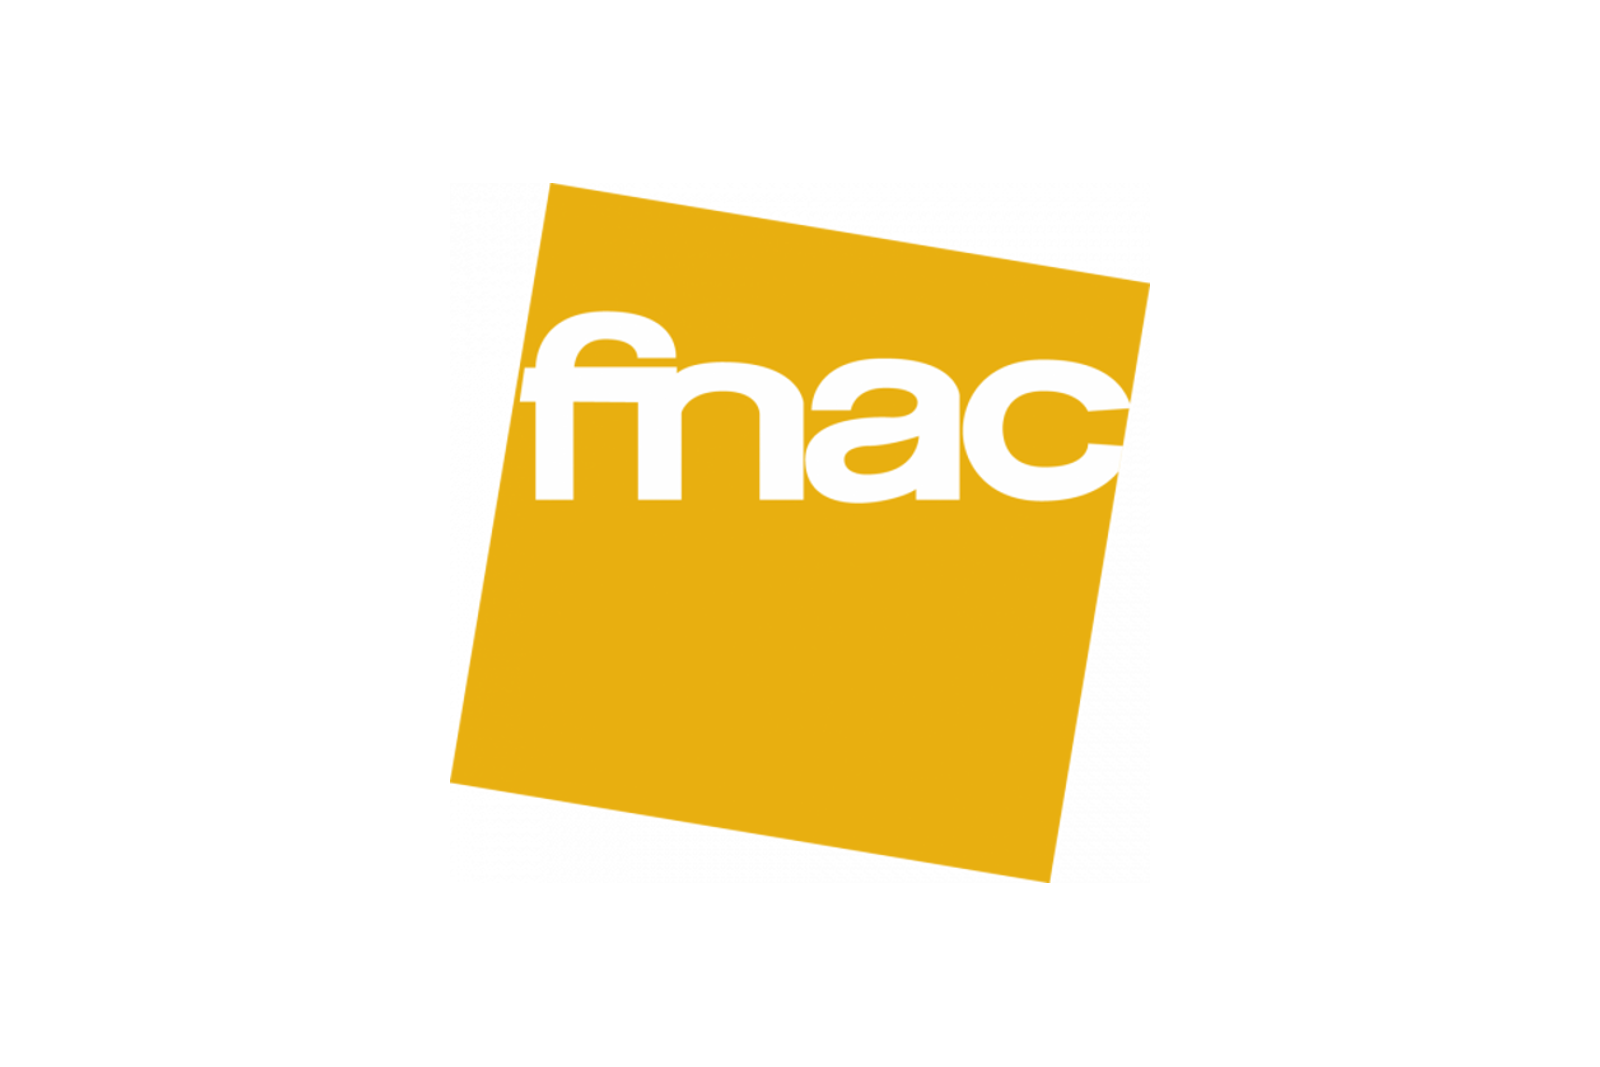
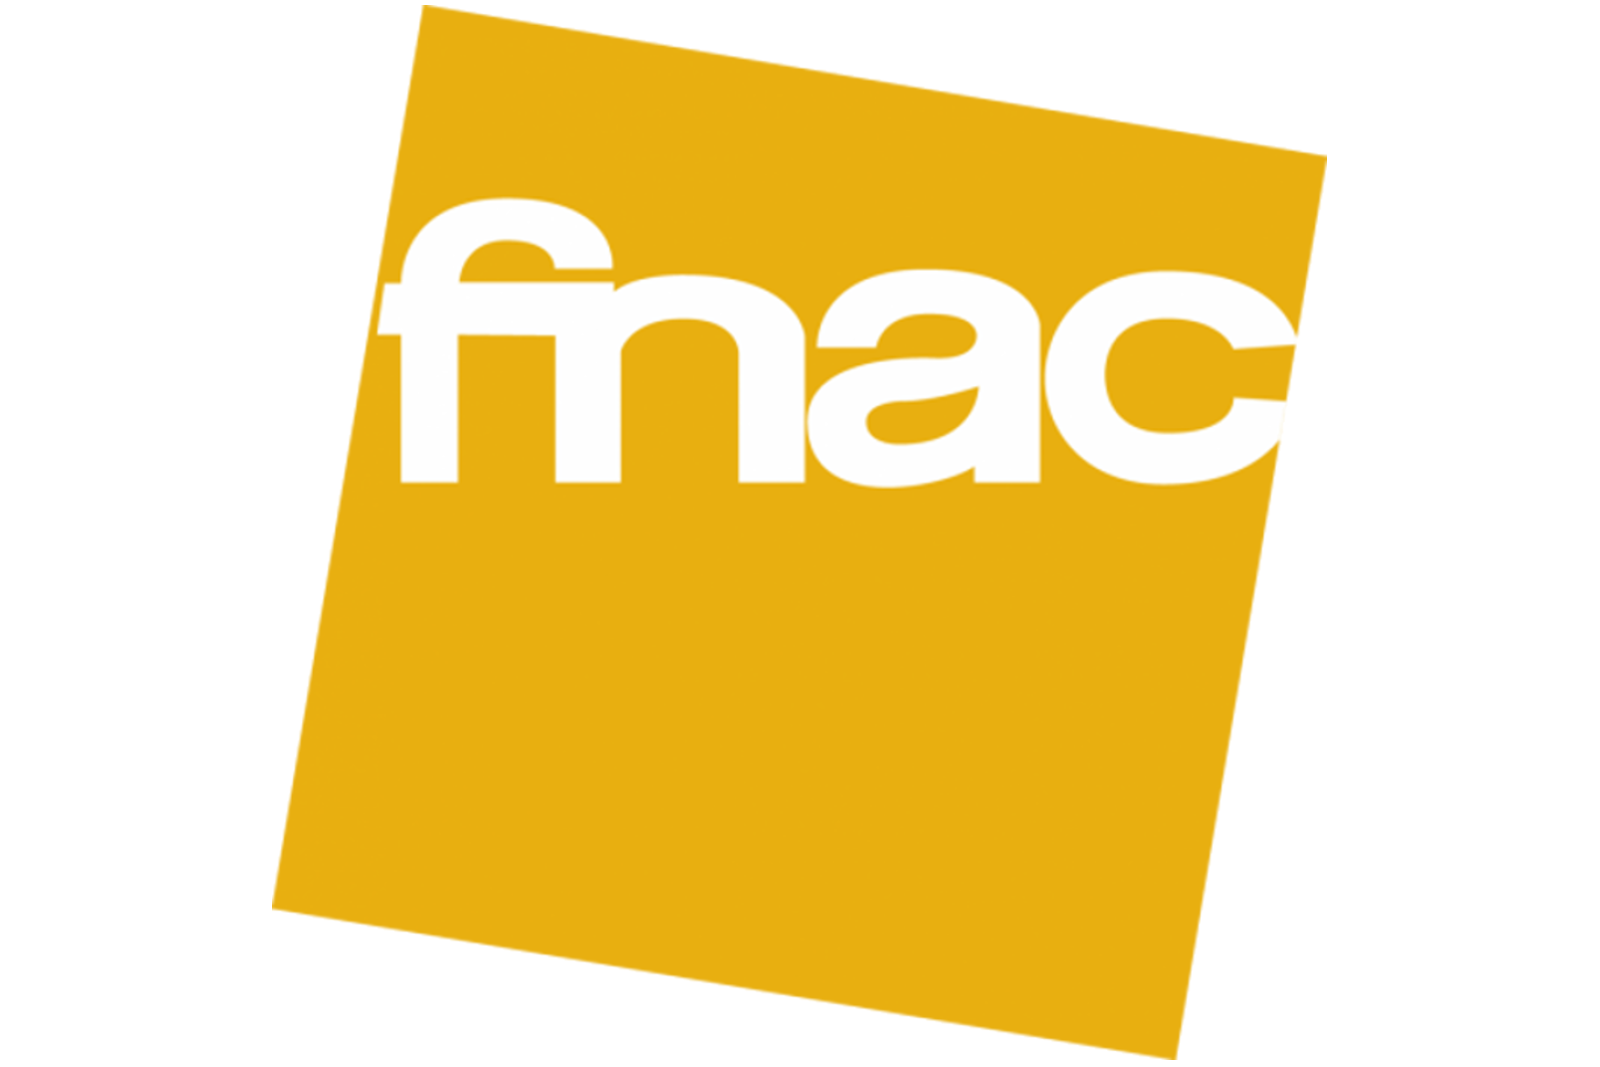
tiendas relacionadas con lockbox

diff --git a/resources/assets/sass/user.scss b/resources/assets/sass/user.scss
@@ -552,5 +552,11 @@ BACKGROUND COLORS
   margin: auto;
   .row{
     margin-bottom: 10px;
+    div {
+      img {
+        border: 10px solid $azulPrice2;
+        border-radius: 50px;
+      }
+    }
   }
 }

diff --git a/resources/views/user/tiendas.blade.php b/resources/views/user/tiendas.blade.php
@@ -12,6 +12,7 @@
                 <p class="text-right"><a href="http://electricsheep.es/libreria">acceder</a></p>
             </div>
         </div>
+        <br/>
         <div class="row">
             <div class="col-xs-8 col-sm-6 col-md-4 col-lg-4 col-xs-offset-2 col-sm-offset-0">
                 <img class="img img-responsive" src="{{asset('img/tiendas/amazon.png')}}"/>
@@ -22,6 +23,7 @@
                 <p class="text-right"><a href="https://amazon.es">acceder</a></p>
             </div>
         </div>
+        <br/>
         <div class="row">
             <div class="col-xs-8 col-sm-6 col-md-4 col-lg-4 col-xs-offset-2 col-sm-offset-0">
                 <img class="img img-responsive" src="{{asset('img/tiendas/fnac.png')}}"/>
